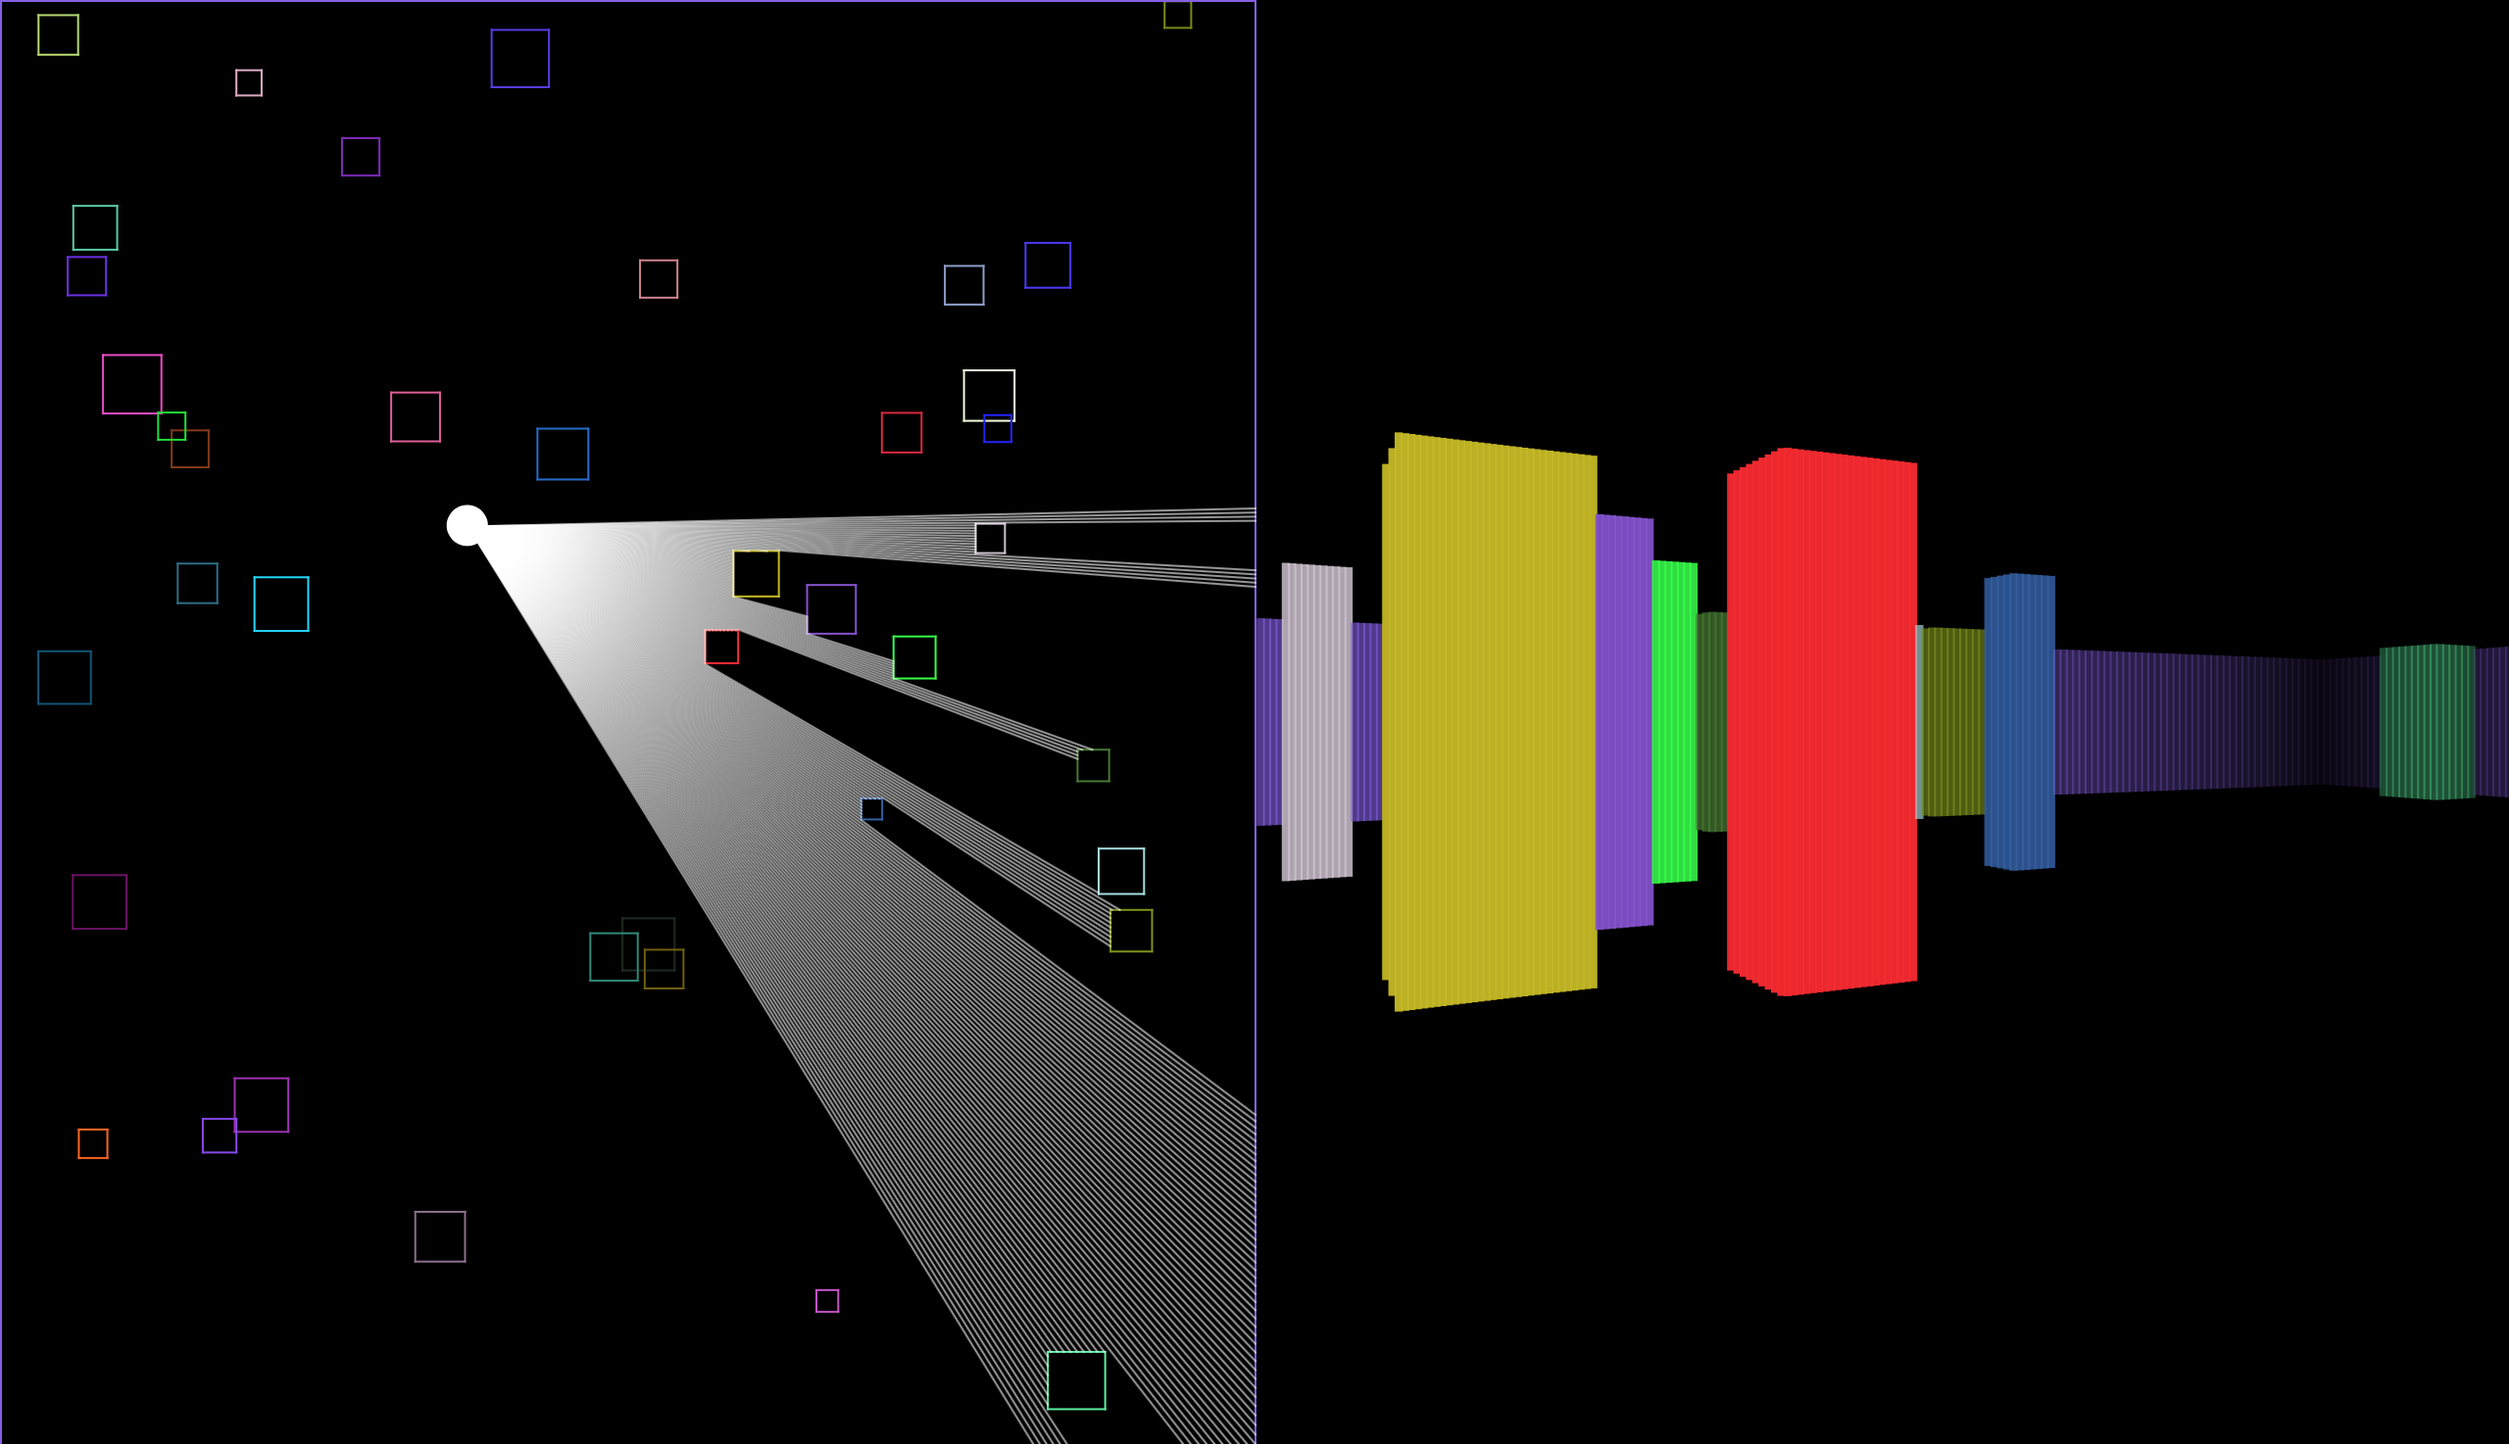
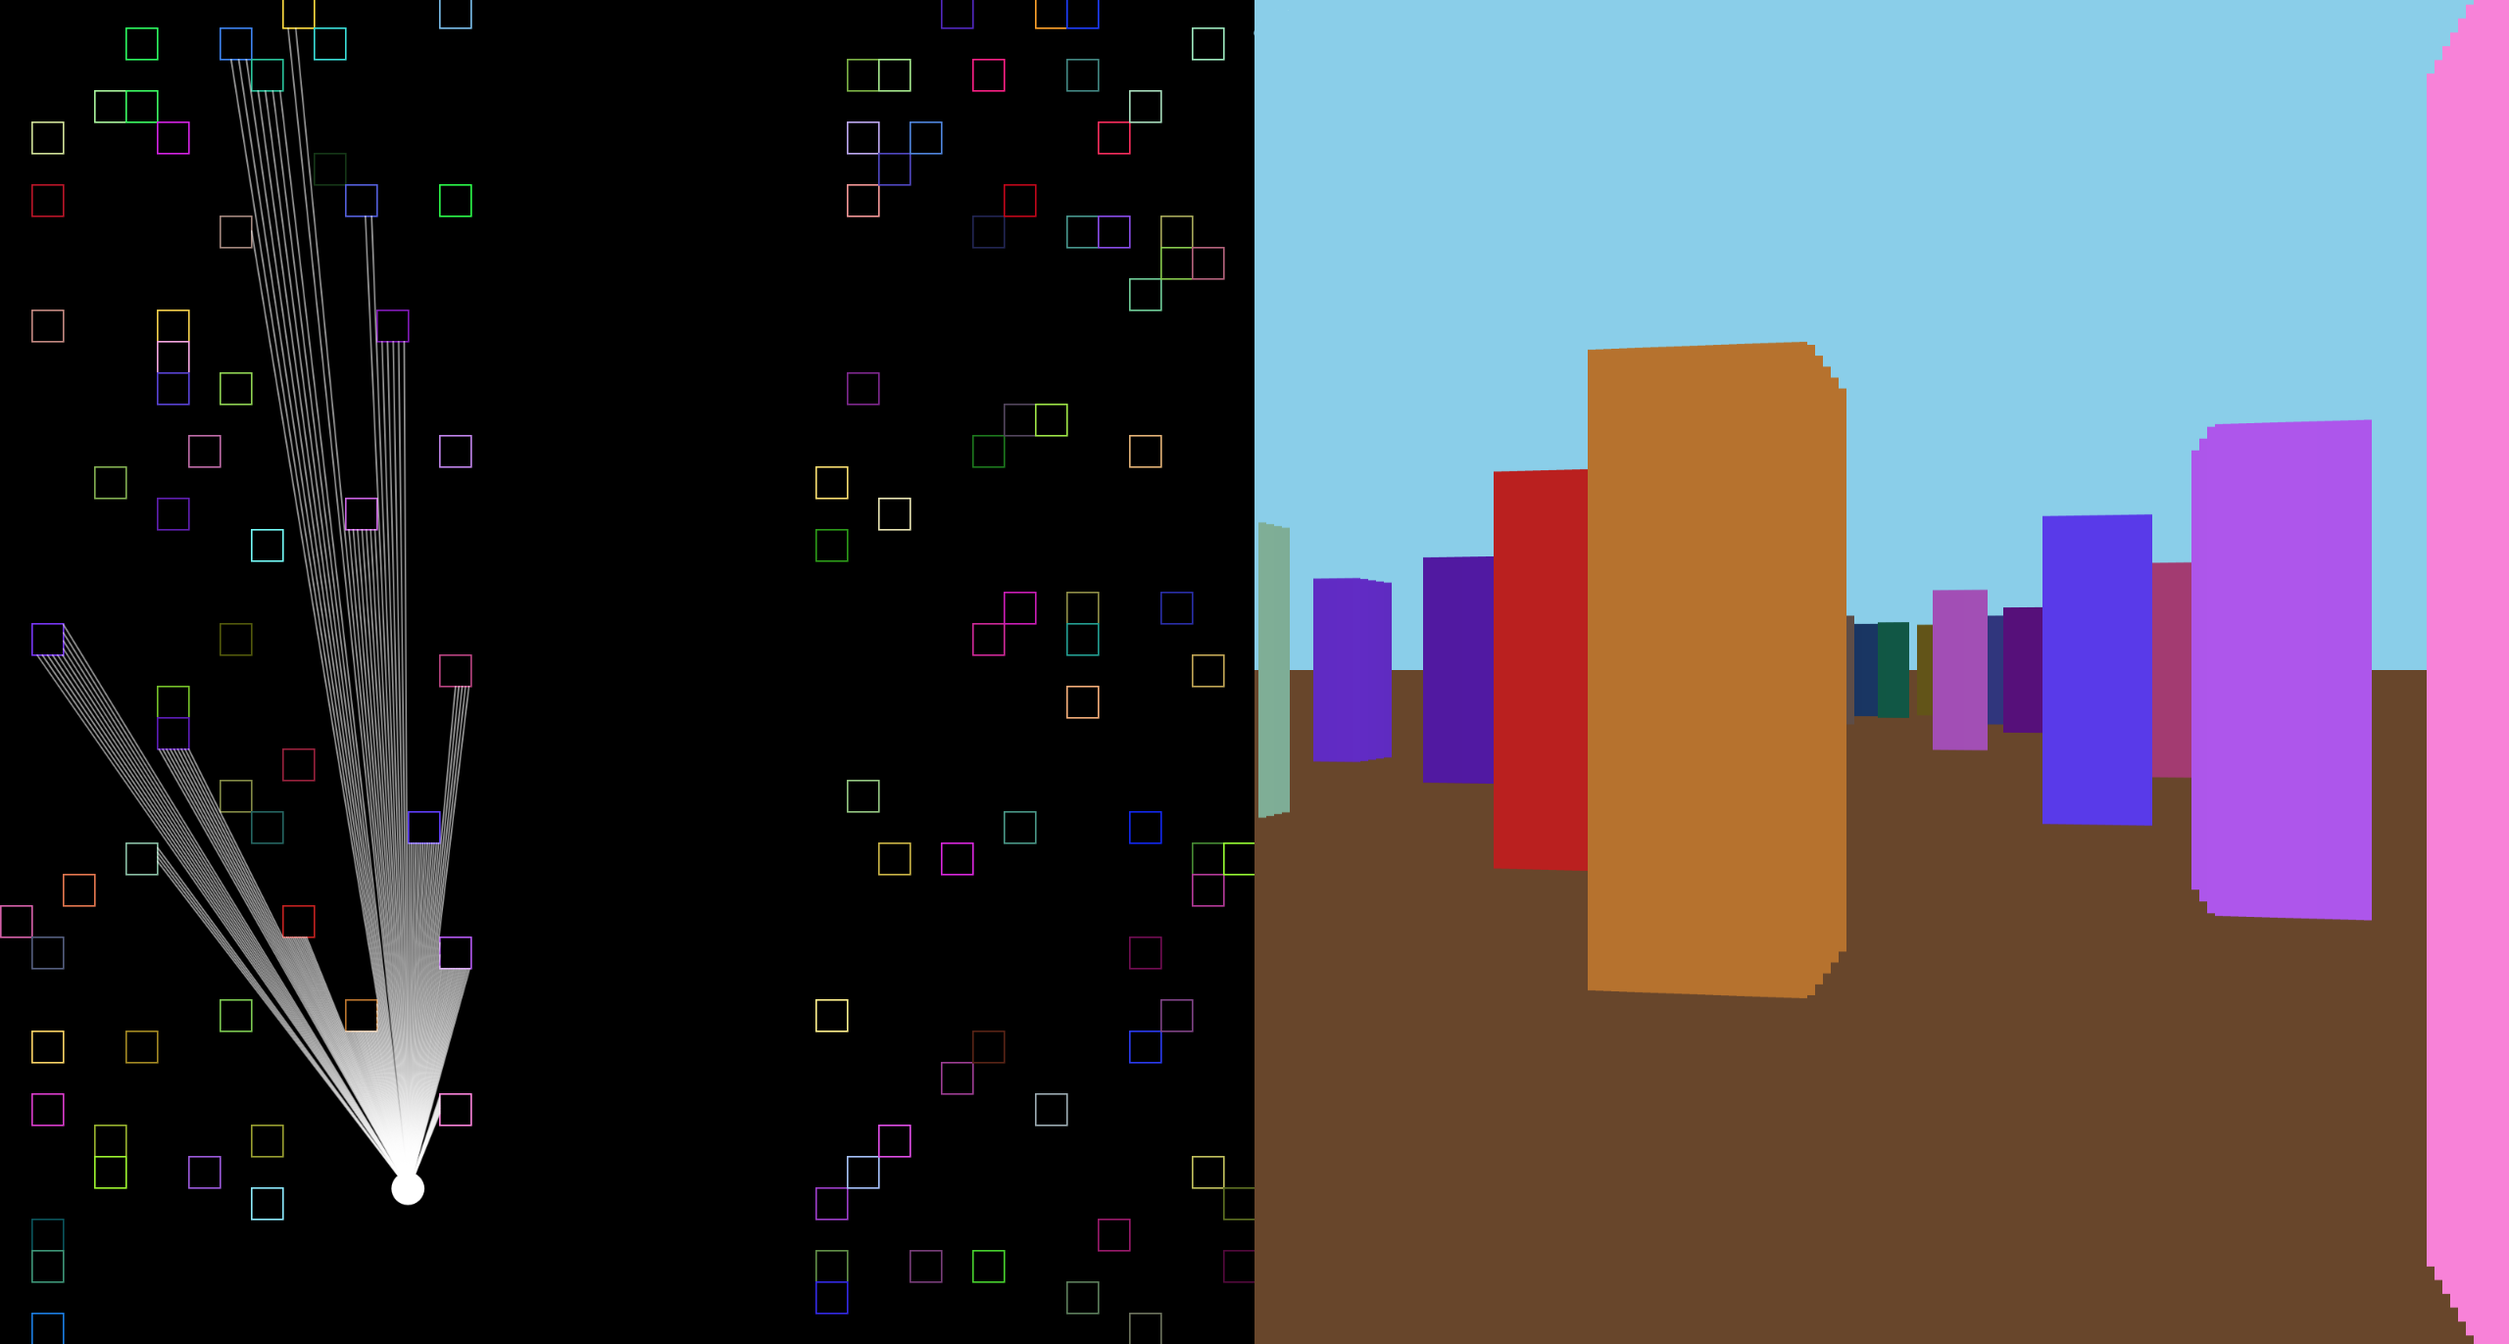
Add basic grid level class, render ground and sky

diff --git a/build/build.js b/build/build.js
@@ -1,6 +1,6 @@
 var Actor = (function () {
     function Actor(x, y, nRays) {
-        if (nRays === void 0) { nRays = 200; }
+        if (nRays === void 0) { nRays = 160; }
         this.pos = p.createVector(x, y);
         this.angle = 0;
         this.fov = p.radians(60);
@@ -24,11 +24,22 @@ var Actor = (function () {
     };
     Actor.prototype.raycast = function (shapes) {
         var _this = this;
+        var sceneW = p.width / 2;
+        var wSq = sceneW * sceneW;
+        var w = sceneW / this.rays.length;
+        p.noStroke();
+        p.fill('#87CEEB');
+        p.rect(sceneW, 0, sceneW, p.height / 2);
+        p.fill('#694629');
+        p.rect(sceneW, p.height / 2, sceneW, p.height / 2);
         this.rays.forEach(function (ray, i) {
             var collided = null;
             var dist = Infinity;
             for (var _i = 0, shapes_1 = shapes; _i < shapes_1.length; _i++) {
                 var shape = shapes_1[_i];
+                if (!shape) {
+                    continue;
+                }
                 var t = ray.cast(shape);
                 if (t) {
                     var d = p.dist(_this.pos.x, _this.pos.y, t.point.x, t.point.y);
@@ -38,34 +49,53 @@ var Actor = (function () {
                     }
                 }
             }
+            var offset = p.map(ray.angle, _this.angle - _this.fov / 2, _this.angle + _this.fov / 2, 0, sceneW);
             if (collided) {
                 var closest = collided.point;
                 p.stroke(255, 150);
                 p.line(ray.pos.x, ray.pos.y, closest.x, closest.y);
-                var sceneW = p.width / 2;
-                p.push();
-                p.translate(sceneW, 0);
                 var sq_1 = dist * dist;
-                var wSq = sceneW * sceneW;
                 var alpha_1 = ray.angle - _this.angle;
-                var offset = p.map(ray.angle, _this.angle - _this.fov / 2, _this.angle + _this.fov / 2, 0, sceneW);
-                var w = sceneW / _this.rays.length;
                 var cameraDist = dist * p.cos(alpha_1);
                 var h = 50 / cameraDist * p.height;
                 var clr = collided.segment.c;
-                p.fill(p.red(clr), p.green(clr), p.blue(clr), p.map(sq_1, 0, wSq, 255, 0));
-                p.rectMode(p.CENTER);
+                var gray = p.map(sq_1, 0, wSq * p.sqrt(2), 1, 0);
+                p.push();
+                p.translate(sceneW, 0);
                 p.noStroke();
-                p.rect(offset + w, p.height / 2, w + 1, h);
+                p.fill(p.red(clr) * gray, p.green(clr) * gray, p.blue(clr) * gray);
+                p.rectMode(p.CENTER);
+                p.rect(offset + w, p.height / 2, w, h);
                 p.pop();
             }
         });
     };
     Actor.prototype.show = function () {
         p.stroke(255, 255);
+        p.fill(255);
         p.ellipse(this.pos.x, this.pos.y, 20, 20);
     };
     return Actor;
+}());
+var Level = (function () {
+    function Level(w, h) {
+        this.width = w;
+        this.height = h;
+        this.cellSize = p.width / this.width / 2;
+        this.cells = [];
+    }
+    Level.prototype.addSquare = function (x, y) {
+        this.cells.push(new Square(x * this.cellSize, y * this.cellSize, this.cellSize));
+    };
+    Level.prototype.show = function () {
+        for (var _i = 0, _a = this.cells; _i < _a.length; _i++) {
+            var x = _a[_i];
+            if (x) {
+                x.show();
+            }
+        }
+    };
+    return Level;
 }());
 var Ray = (function () {
     function Ray(x, y, a) {
@@ -198,27 +228,34 @@ var p;
 var sketch = function (context) {
     p = context;
     var player;
-    var shapes;
+    var level;
     var isUp, isDown, isLeft, isRight, isShift;
     p.setup = function () {
         p.createCanvas(p.windowWidth, p.windowHeight);
+        p.frameRate(60);
+        p.textSize(30);
         player = new Actor(p.width / 4, p.height / 2);
-        shapes = [];
-        for (var i = 0; i < 40; i++) {
-            shapes.push(new Square(p.random(0, p.width / 2 - 30), p.random(0, p.height - 30), p.random(10, 30)));
+        var lw = 40;
+        var lh = 50;
+        level = new Level(lw, lh);
+        for (var x = 0; x < lw; x++) {
+            for (var y = 0; y < lh; y++) {
+                if (p.abs(x - lw / 2) > 5 && p.random() < 0.1) {
+                    level.addSquare(x, y);
+                }
+            }
         }
-        shapes.push(new Rectangle(0, 0, p.width / 2, p.height));
     };
     p.draw = function () {
         p.background(0);
-        for (var _i = 0, shapes_2 = shapes; _i < shapes_2.length; _i++) {
-            var shape = shapes_2[_i];
-            shape.show();
-        }
+        level.show();
         player.update();
-        player.raycast(shapes);
+        player.raycast(level.cells);
         player.show();
-        var dx = isShift ? 3 : 1;
+        p.stroke(255);
+        p.fill(255);
+        p.text(p.round(p.frameRate()), p.width / 2, p.textSize());
+        var dx = isShift ? 5 : 3;
         if (isUp) {
             player.move(dx, 0);
         }

diff --git a/sketch/actor.ts b/sketch/actor.ts
@@ -4,7 +4,7 @@ class Actor {
     fov: number;
     rays: Ray[];
 
-    constructor(x: number, y: number, nRays: number = 200) {
+    constructor(x: number, y: number, nRays: number = 160) {
         this.pos = p.createVector(x, y);
         this.angle = 0;
         this.fov = p.radians(60);
@@ -32,11 +32,24 @@ class Actor {
     }
 
     raycast(shapes: IShape[]) {
+        const sceneW = p.width / 2;
+        const wSq = sceneW * sceneW;
+        const w = sceneW / this.rays.length;
+
+        p.noStroke();
+        p.fill('#87CEEB');
+        p.rect(sceneW, 0, sceneW, p.height / 2);
+        p.fill('#694629');
+        p.rect(sceneW, p.height / 2, sceneW, p.height / 2);
+
         this.rays.forEach((ray, i) => {
             var collided: { point: p5.Vector, segment: Segment } = null;
             var dist = Infinity;
 
             for (let shape of shapes) {
+                if (!shape) {
+                    continue;
+                }
                 const t = ray.cast(shape);
                 if (t) {
                     const d = p.dist(this.pos.x, this.pos.y, t.point.x, t.point.y);
@@ -46,33 +59,27 @@ class Actor {
                     }
                 }
             }
+
+            const offset = p.map(ray.angle, this.angle - this.fov / 2, this.angle + this.fov / 2, 0, sceneW);
+
             if (collided) {
                 const closest = collided.point;
                 p.stroke(255, 150);
                 p.line(ray.pos.x, ray.pos.y, closest.x, closest.y);
 
                 // render 3D view on the right hand side
-                const sceneW = p.width / 2;
-
-                p.push();
-                p.translate(sceneW, 0);
-
                 const sq = dist * dist;
-                const wSq = sceneW * sceneW;
-
                 const alpha = ray.angle - this.angle;
-                const offset = p.map(ray.angle, this.angle - this.fov / 2, this.angle + this.fov / 2, 0, sceneW);
-                const w = sceneW / this.rays.length;
-
                 const cameraDist = dist * p.cos(alpha);
                 const h = 50 / cameraDist * p.height;
-
                 const clr = collided.segment.c;
-
-                p.fill(p.red(clr), p.green(clr), p.blue(clr), p.map(sq, 0, wSq, 255, 0));
-                p.rectMode(p.CENTER);
+                const gray = p.map(sq, 0, wSq * p.sqrt(2), 1, 0);
+                p.push();
+                p.translate(sceneW, 0);
                 p.noStroke();
-                p.rect(offset + w, p.height / 2, w + 1, h);
+                p.fill(p.red(clr) * gray, p.green(clr) * gray, p.blue(clr) * gray);
+                p.rectMode(p.CENTER);
+                p.rect(offset + w, p.height / 2, w, h);
                 p.pop();
             }
         });
@@ -80,6 +87,7 @@ class Actor {
 
     show() {
         p.stroke(255, 255);
+        p.fill(255);
         p.ellipse(this.pos.x, this.pos.y, 20, 20);
     }
 }

diff --git a/sketch/sketch.ts b/sketch/sketch.ts
@@ -4,33 +4,43 @@ var sketch = (context: p5) => {
     p = context;
 
     var player: Actor;
-    var shapes: IShape[];
+    var level: Level;
     var isUp: boolean, isDown: boolean, isLeft: boolean, isRight: boolean, isShift: boolean;
 
     p.setup = () => {
         p.createCanvas(p.windowWidth, p.windowHeight);
+        p.frameRate(60);
+        p.textSize(30);
 
         player = new Actor(p.width / 4, p.height / 2);
 
-        shapes = [];
-        for (let i = 0; i < 40; i++) {
-            shapes.push(new Square(p.random(0, p.width / 2 - 30), p.random(0, p.height - 30), p.random(10, 30)));
+        const lw = 40;
+        const lh = 50;
+        level = new Level(lw, lh);
+
+        for (let x = 0; x < lw; x++) {
+            for (let y = 0; y < lh; y++) {
+                if (p.abs(x - lw / 2) > 5 && p.random() < 0.1) {
+                    level.addSquare(x, y);
+                }
+            }
         }
-        shapes.push(new Rectangle(0, 0, p.width / 2, p.height));
     }
 
     p.draw = () => {
         p.background(0);
 
-        for (let shape of shapes) {
-            shape.show();
-        }
+        level.show();
 
         player.update();
-        player.raycast(shapes);
+        player.raycast(level.cells);
         player.show();
 
-        const dx = isShift ? 3 : 1;
+        p.stroke(255);
+        p.fill(255);
+        p.text(p.round(p.frameRate()), p.width / 2, p.textSize());
+
+        const dx = isShift ? 5 : 3;
 
         if (isUp) {
             player.move(dx, 0);

diff --git a/sketch/level.ts b/sketch/level.ts
@@ -1,0 +1,26 @@
+class Level {
+    cells: Square[];
+    width: number;
+    height: number;
+    cellSize: number;
+
+    constructor(w: number, h: number) {
+        this.width = w;
+        this.height = h;
+        this.cellSize = p.width / this.width / 2;
+
+        this.cells = []
+    }
+
+    addSquare(x: number, y: number) {
+        this.cells.push(new Square(x * this.cellSize, y * this.cellSize, this.cellSize));
+    }
+
+    show() {
+        for (let x of this.cells) {
+            if (x) {
+                x.show();
+            }
+        }
+    }
+}

diff --git a/readme.md b/readme.md
@@ -5,6 +5,7 @@ WORK IN PROGRESS
 Working:
 * Raycasting
 * Pseudo-3D rendering
+* Basic ground and sky
 
 Move with WSAD, run with left Shift, look around with your mouse.
 
